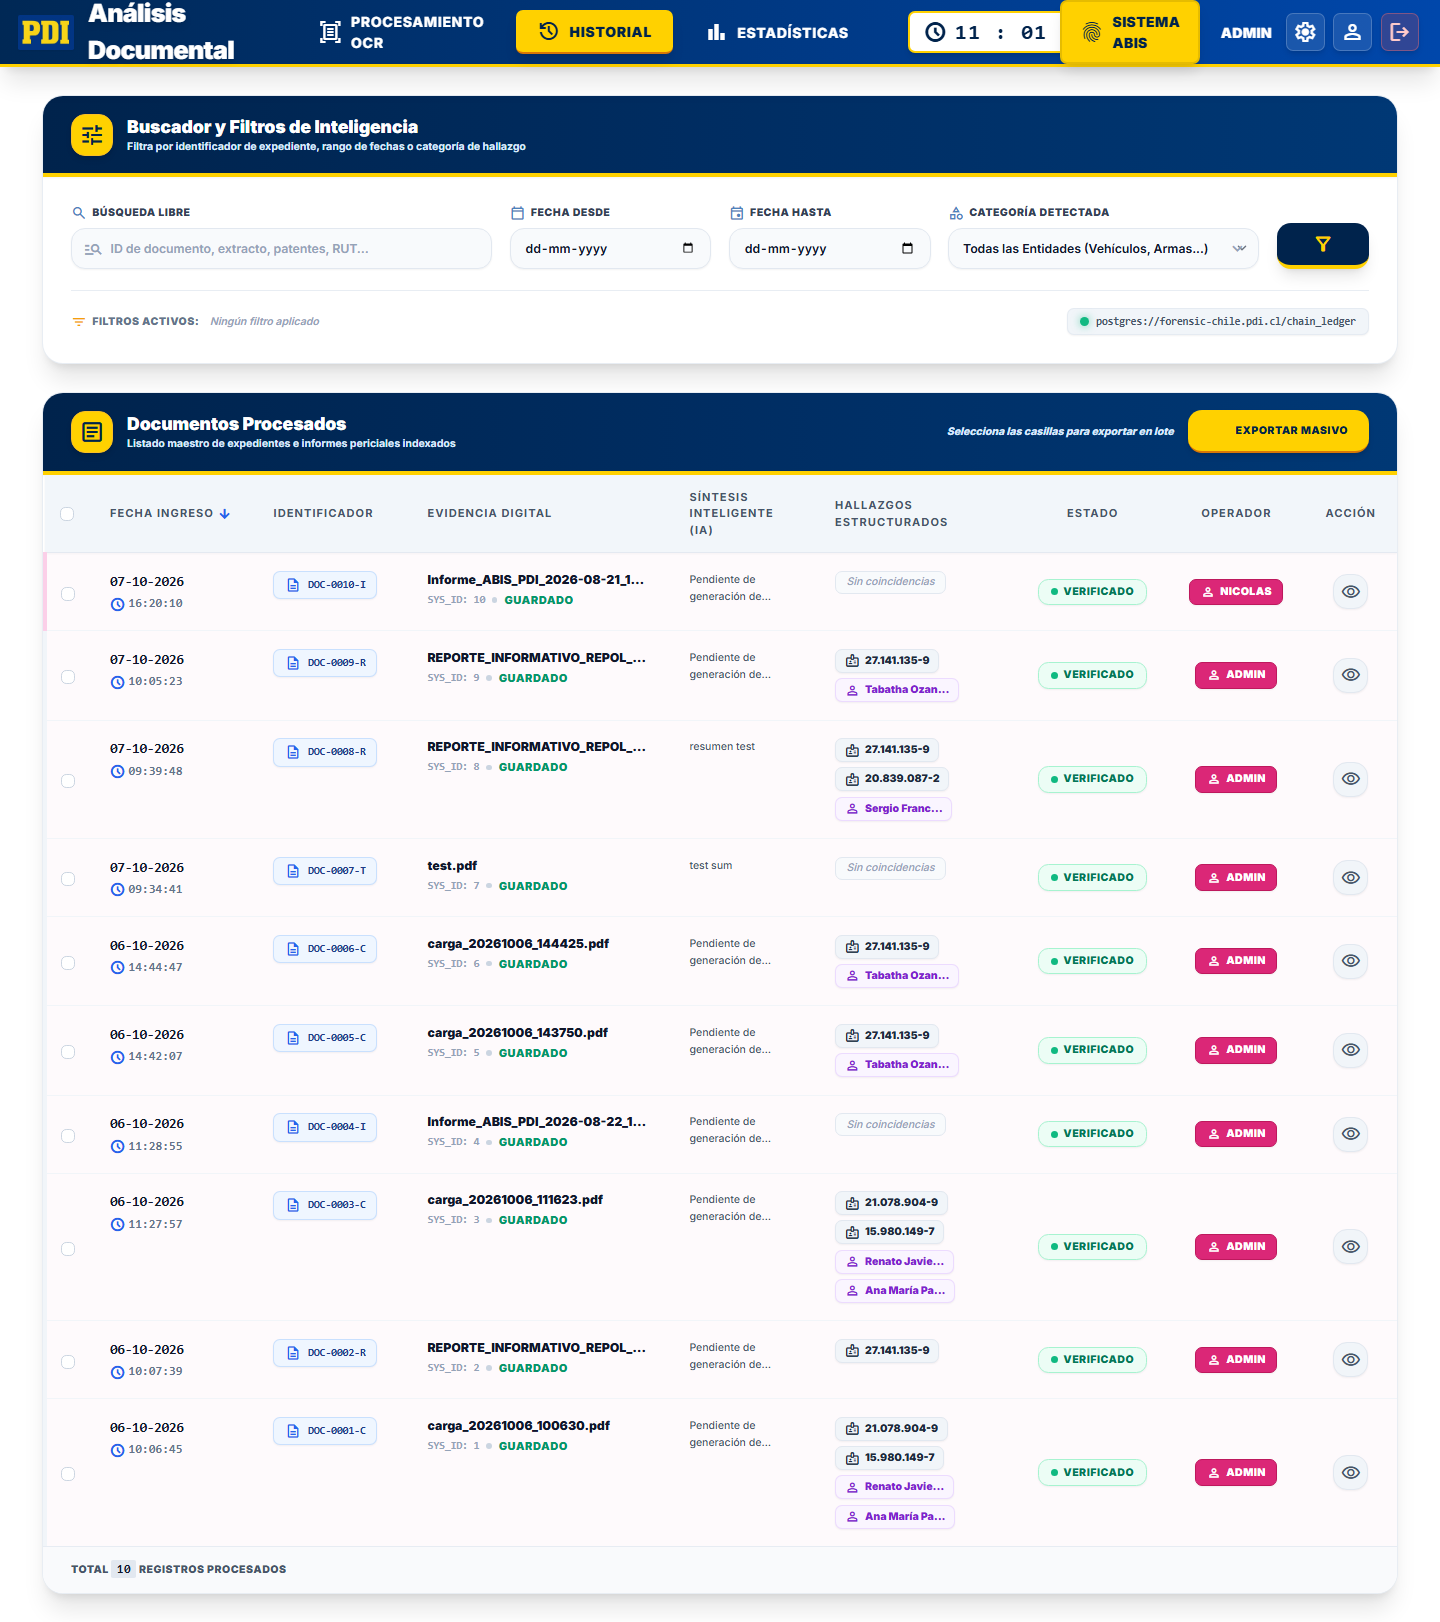
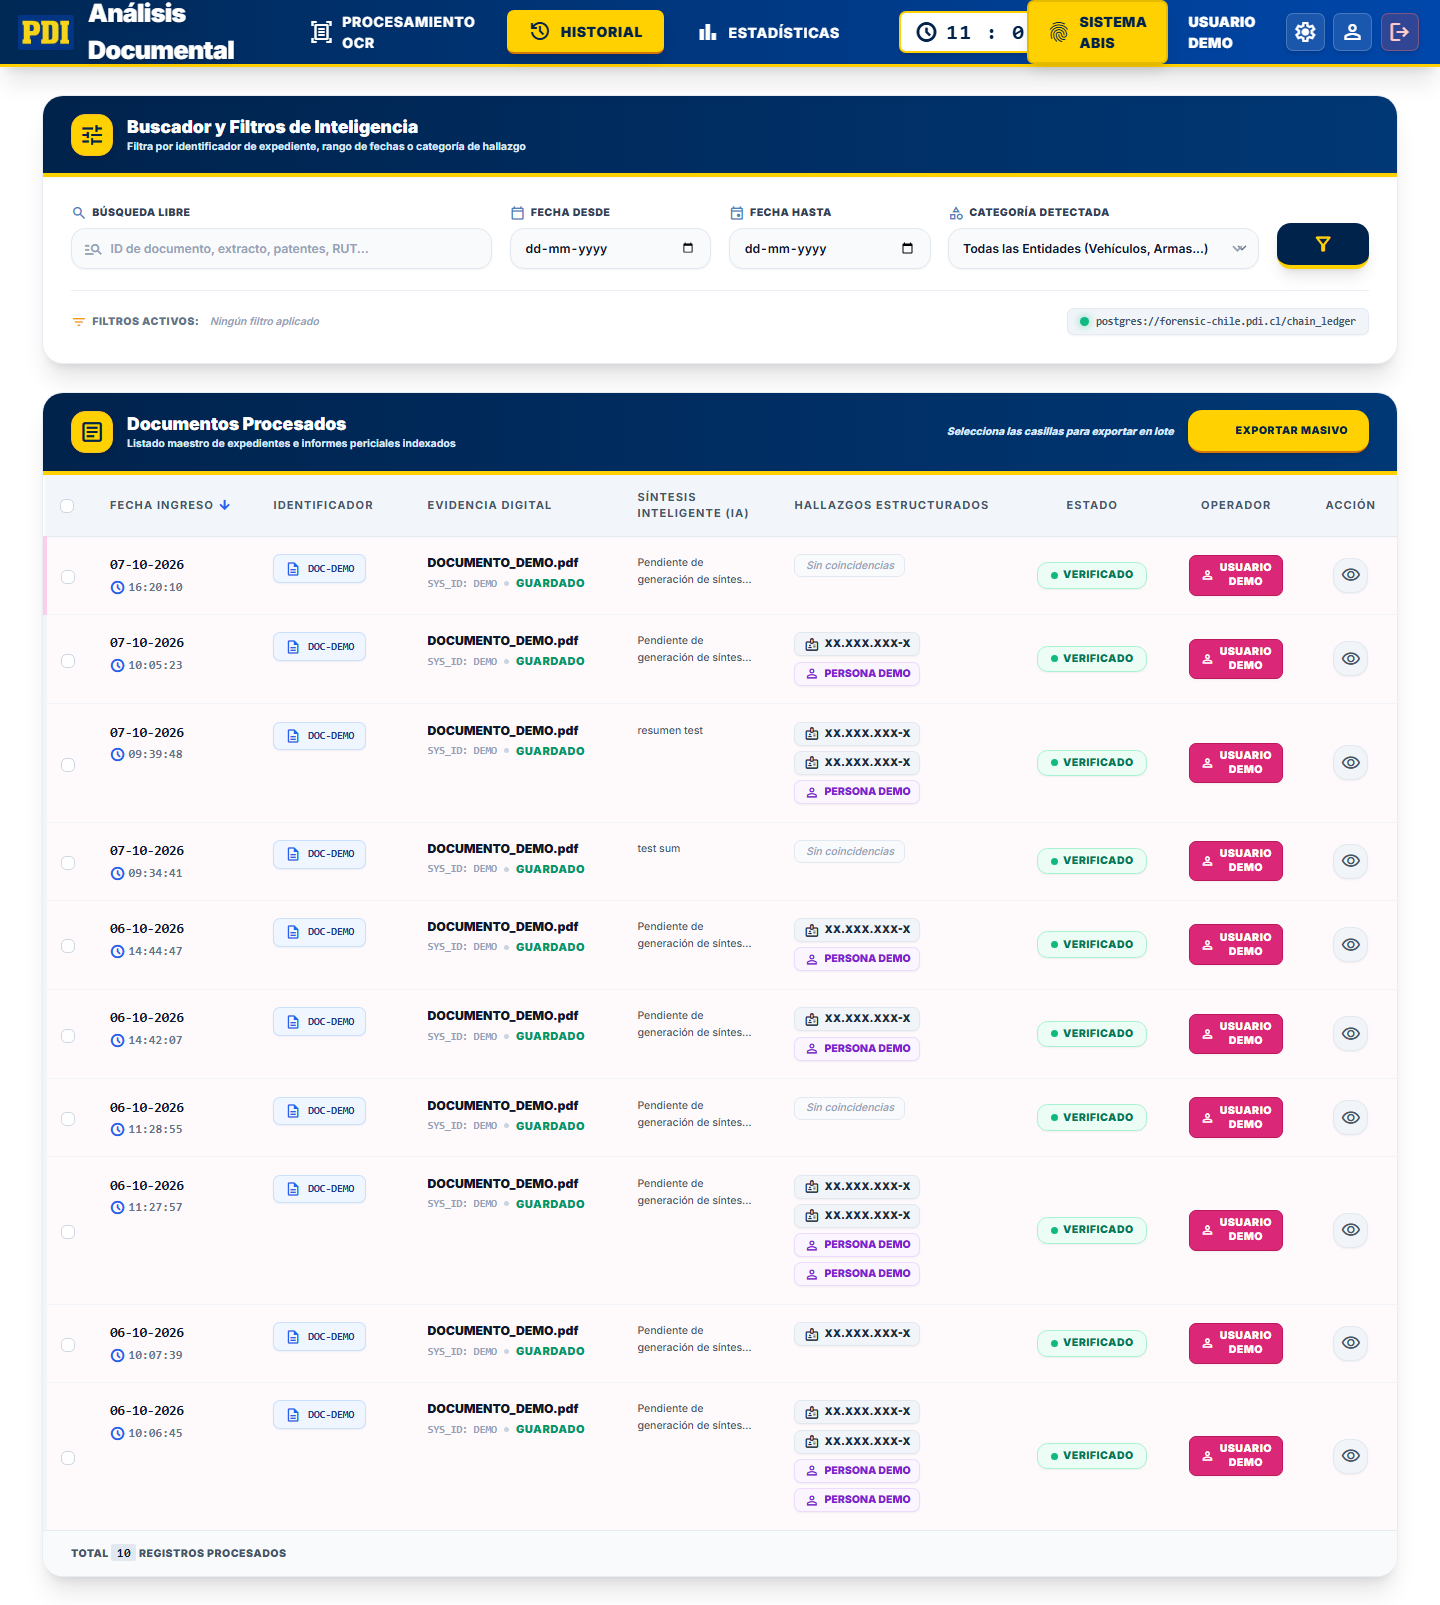
docs: anonymize Playwright screenshots

diff --git a/scripts/capturar-screenshots-playwright.js b/scripts/capturar-screenshots-playwright.js
@@ -29,8 +29,53 @@ async function waitForPage(page) {
   });
 }
 
-async function capture(page, filename) {
+async function anonymizePage(page) {
+  await page.evaluate(() => {
+    const textNodes = [];
+    const walker = document.createTreeWalker(document.body, NodeFilter.SHOW_TEXT);
+    let node;
+    while ((node = walker.nextNode())) textNodes.push(node);
+
+    for (const textNode of textNodes) {
+      const original = textNode.nodeValue || "";
+      const trimmed = original.trim();
+      if (!trimmed) continue;
+
+      if (/\.pdf\b/i.test(original)) {
+        textNode.nodeValue = "DOCUMENTO_DEMO.pdf";
+        continue;
+      }
+
+      if (/\b(?:Tabatha|Ana\s+María|Ana\s+Maria|Renato|Sergio)\b/i.test(original)) {
+        textNode.nodeValue = "PERSONA DEMO";
+        continue;
+      }
+
+      if (/\b\d{1,2}\.\d{3}\.\d{3}-[\dkK]\b/.test(original)) {
+        textNode.nodeValue = original.replace(/\b\d{1,2}\.\d{3}\.\d{3}-[\dkK]\b/g, "XX.XXX.XXX-X");
+        continue;
+      }
+
+      if (/\b(?:DOC|SYS_ID)[-_:\s]*\d+[A-Z-]*\b/i.test(original)) {
+        textNode.nodeValue = original.replace(/\bDOC[-_]\d+[A-Z-]*\b/gi, "DOC-DEMO").replace(/SYS_ID:\s*\d+/gi, "SYS_ID: DEMO");
+        continue;
+      }
+
+      if (/^(?:abis_user|admin|nicolas|nicolastest|ejemplo|martin)$/i.test(trimmed)) {
+        textNode.nodeValue = "USUARIO DEMO";
+      }
+    }
+
+    for (const input of document.querySelectorAll("input, textarea")) {
+      if (/\.pdf\b/i.test(input.value || "")) input.value = "DOCUMENTO_DEMO.pdf";
+      if (/\.pdf\b/i.test(input.placeholder || "")) input.placeholder = "DOCUMENTO_DEMO.pdf";
+    }
+  });
+}
+
+async function capture(page, filename, { anonymize = false } = {}) {
   await waitForPage(page);
+  if (anonymize) await anonymizePage(page);
   const target = path.join(OUTPUT_DIR, filename);
   await page.screenshot({ path: target, fullPage: true });
   console.log(`CAPTURED ${target}`);
@@ -71,7 +116,7 @@ async function captureAbis(browser) {
 
   await loginAbis(page);
   await page.goto(ABIS_URL, { waitUntil: "domcontentloaded" });
-  await capture(page, "02-abis-dashboard.png");
+  await capture(page, "02-abis-dashboard.png", { anonymize: true });
 
   for (const [tab, filename] of [
     ["ingesta", "03-abis-ingesta.png"],
@@ -79,7 +124,7 @@ async function captureAbis(browser) {
     ["auditoria", "05-abis-auditoria.png"],
   ]) {
     await page.locator(`button[data-tab='${tab}']`).click();
-    await capture(page, filename);
+    await capture(page, filename, { anonymize: true });
   }
 
   for (const [section, filename] of [
@@ -89,7 +134,7 @@ async function captureAbis(browser) {
     ["administracion", "09-abis-ajustes-administracion.png"],
   ]) {
     await page.goto(`${ABIS_URL}/ajustes/${section}`, { waitUntil: "domcontentloaded" });
-    await capture(page, filename);
+    await capture(page, filename, { anonymize: true });
   }
 
   await context.close();
@@ -115,7 +160,7 @@ async function captureSiad(browser) {
     ["/configuracion?section=administracion", "15-siad-administracion.png"],
   ]) {
     await page.goto(`${SIAD_URL}${route}`, { waitUntil: "domcontentloaded" });
-    await capture(page, filename);
+    await capture(page, filename, { anonymize: true });
   }
 
   await context.close();
